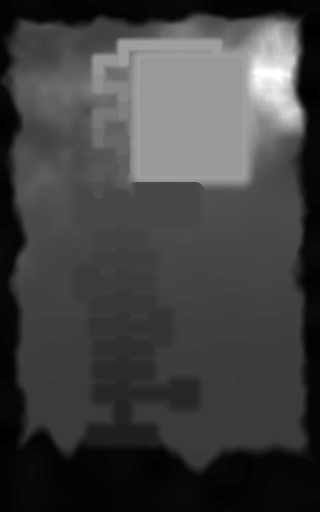
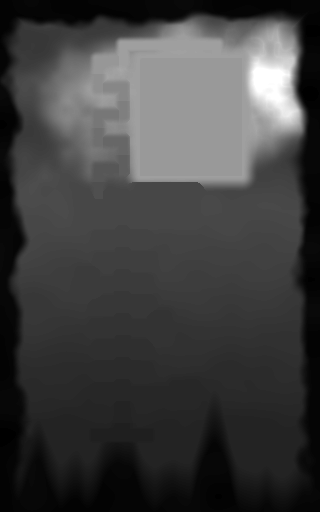
fix(foot-of-the-mountain): one mountain with a flat summit shoulder for Doune; the waterline follows coves and points; the quay meets the water
Town: 23,413 of 124,620 land columns (18.8%) within eight cells of a town box.

diff --git a/campaigns/foot-of-the-mountain/design/generator/plan.py b/campaigns/foot-of-the-mountain/design/generator/plan.py
@@ -502,11 +502,12 @@ def ridged(x, z, scale, octaves, salt):
 
 
 def coast_z(x):
-    """The south coast's line: coves and points, the harbour inlet at the quay."""
-    z = 452 + (fbm(x, 0, 46, 3, 31) - 0.5) * 44
-    z -= 16 * smooth(1 - abs(x - 122) / 34)          # the harbour inlet
-    z += 26 * smooth(1 - abs(x - 200) / 26)          # the lighthouse point
-    z -= 22 * smooth(1 - abs(x - 40) / 30)           # a western cove
+    """The south coast's line: coves and points; the harbour inlet at the
+    quay; a deep cove east of the lighthouse so it stands on its point."""
+    z = 462 + (fbm(x, 0, 38, 3, 31) - 0.5) * 70
+    z -= 30 * smooth(1 - abs(x - 122) / 40)          # the harbour inlet
+    z -= 66 * smooth(1 - abs(x - 214) / 26)          # the cove under the lighthouse
+    z -= 48 * smooth(1 - abs(x - 38) / 30)           # a western cove
     return z
 
 
@@ -525,14 +526,14 @@ def mountain(x, z):
     broken by noise so no slope is a cone."""
     wx = x + (fbm(x, z, 60, 2, 41) - 0.5) * 50      # domain warp: no circle survives
     wz = z + (fbm(x, z, 60, 2, 43) - 0.5) * 50
-    d = math.hypot((wx - CX) / 150, (wz - CZ) / 120)
-    dome = 66 + 62 * (1 - smooth(d)) ** 1.15
+    d = math.hypot((wx - CX) / 165, (wz - CZ) / (95 if wz > CZ else 140))
+    dome = 50 + 78 * (1 - smooth((d - 0.32) / 0.68))
     p = math.hypot((wx - 278) / 62, (wz - 72) / 70)
     summit = 112 * (1 - smooth(p)) ** 0.9 * (0.6 + 0.4 * ridged(x, z, 30, 3, 51))
     ridge_line = math.exp(-((wz - 34) / 20) ** 2) * smooth((wx - 120) / 60)
     ridge = 30 * ridge_line * (0.5 + 0.5 * ridged(x, z, 34, 3, 45))
     broken = (ridged(x, z, 22, 3, 47) - 0.45) * 16 * (1 - smooth(d))
-    hills = 10 + (fbm(x, z, 44, 3, 53) - 0.35) * 46 * smooth((150 - x) / 60) * smooth((300 - z) / 60)
+    hills = (16 + (fbm(x, z, 44, 3, 53) - 0.35) * 46) * smooth((150 - x) / 60) * smooth((300 - z) / 60)
     return dome + max(summit, ridge) + broken + hills
 
 
@@ -543,12 +544,19 @@ def slope(x, z):
 
 
 def base_height(x, z):
-    m = land(x, z)
-    h_m, h_s = mountain(x, z), slope(x, z)
+    """The land: the soft maximum of the mountain and its lower slope, cut by
+    the shore so the waterline follows the coast's coves and points, falling
+    to the sea floor; cliffs only on the far coasts."""
+    wob = (fbm(x, z, 40, 3, 1) - 0.5) * 30
+    inset = min(x, RX - 1 - x, z) + wob
+    edge = smooth((inset - 10) / 14)
+    h_m, h_s = mountain(x, z), max(slope(x, z), 64.5)
     k = 6.0                                          # a soft maximum: no crease
     h = k * math.log(math.exp(h_m / k) + math.exp(h_s / k))
+    shore = 62.5 + 0.35 * (coast_z(x) + wob * 0.3 - z)   # a beach rising from the waterline
     sea_floor = 50 + (vnoise(x, z, 31, 4) - 0.5) * 4
-    return sea_floor + (h - sea_floor) * m
+    h = max(sea_floor, min(h, shore))
+    return sea_floor + (h - sea_floor) * edge
 
 
 H = [[base_height(x, z) for x in range(RX)] for z in range(RZ)]
@@ -562,7 +570,7 @@ T = [[0.0] * RX for _ in range(RZ)]
 for n, x0, z0, dx, dz, f in rects:
     castle = n == "node/castle"
     road = n.startswith("node/road") or n == "node/gate-road"
-    skirt = 16 if castle else (7 if road else 12)
+    skirt = 16 if castle else (7 if road else (3 if n == "node/quay" else 12))
     for z in range(max(0, z0 - 1 - skirt), min(RZ, z0 + dz + 1 + skirt)):
         for x in range(max(0, x0 - 1 - skirt), min(RX, x0 + dx + 1 + skirt)):
             ddx = max(x0 - x, 0, x - (x0 + dx - 1))
